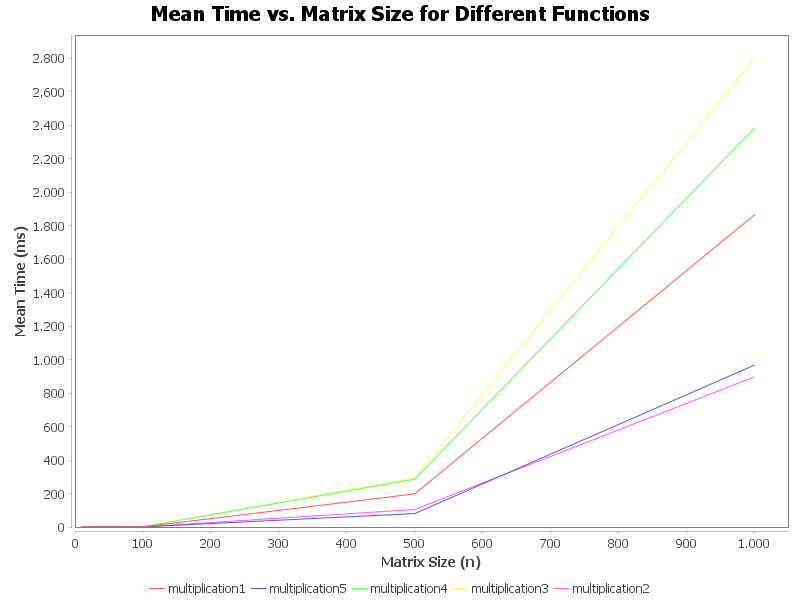
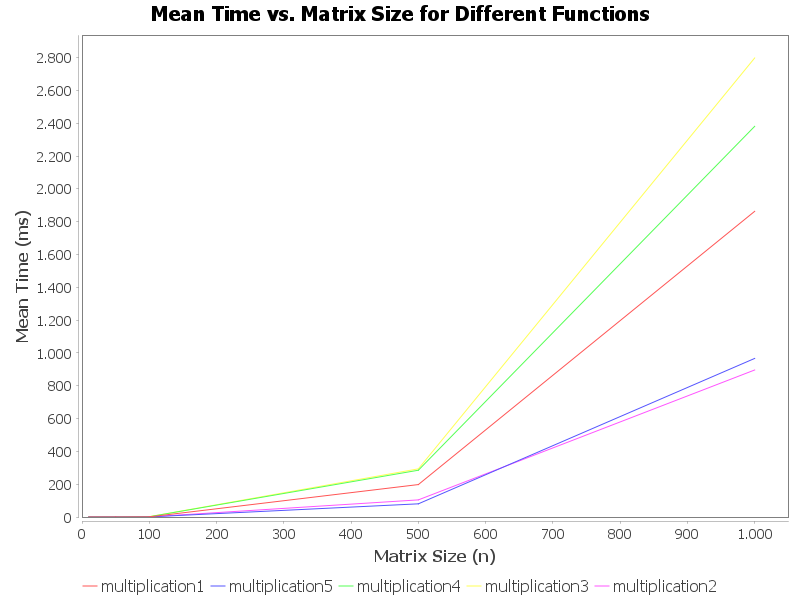
output images modified

diff --git a/code/java/matrixMultiplication/src/test/java/org/example/BenchmarkPlotter.java b/code/java/matrixMultiplication/src/test/java/org/example/BenchmarkPlotter.java
@@ -5,6 +5,8 @@ import org.jfree.chart.ChartPanel;
 import org.jfree.chart.JFreeChart;
 import org.jfree.chart.plot.PlotOrientation;
 import org.jfree.chart.plot.XYPlot;
+import org.jfree.chart.title.LegendTitle;
+import org.jfree.chart.title.TextTitle;
 import org.jfree.data.xy.XYSeries;
 import org.jfree.data.xy.XYSeriesCollection;
 
@@ -52,6 +54,9 @@ public class BenchmarkPlotter {
         XYPlot plot = chart.getXYPlot();
         plot.setBackgroundPaint(Color.WHITE);
 
+        setLabelAndTickFont(plot);
+        setLegendAndTitleFont(chart);
+
         ChartPanel chartPanel = new ChartPanel(chart);
         chartPanel.setPreferredSize(new Dimension(800, 600));
 
@@ -61,6 +66,27 @@ public class BenchmarkPlotter {
         frame.pack();
         frame.setLocationRelativeTo(null);
         frame.setVisible(true);
+    }
+
+    private static void setLabelAndTickFont(XYPlot plot) {
+        Font axisLabelFont = new Font("Tahoma", Font.BOLD, 16);
+        plot.getDomainAxis().setLabelFont(axisLabelFont);
+        plot.getRangeAxis().setLabelFont(axisLabelFont);
+
+        Font axisTickFont = new Font("Tahoma", Font.PLAIN, 14);
+        plot.getDomainAxis().setTickLabelFont(axisTickFont);
+        plot.getRangeAxis().setTickLabelFont(axisTickFont);
+    }
+
+    private static void setLegendAndTitleFont(JFreeChart chart) {
+        Font titleFont = new Font("Tahoma", Font.BOLD, 20);
+        chart.setTitle(new TextTitle(chart.getTitle().getText(), titleFont));
+
+        LegendTitle legend = chart.getLegend();
+        if (legend != null) {
+            Font legendFont = new Font("Tahoma", Font.PLAIN, 16);
+            legend.setItemFont(legendFont);
+        }
     }
 
     public static void main(String[] args) {

diff --git a/code/java/matrixMultiplication/src/test/java/org/example/MemoryDataPlotter.java b/code/java/matrixMultiplication/src/test/java/org/example/MemoryDataPlotter.java
@@ -5,6 +5,8 @@ import org.jfree.chart.ChartPanel;
 import org.jfree.chart.JFreeChart;
 import org.jfree.chart.plot.PlotOrientation;
 import org.jfree.chart.plot.XYPlot;
+import org.jfree.chart.title.LegendTitle;
+import org.jfree.chart.title.TextTitle;
 import org.jfree.data.xy.XYSeries;
 import org.jfree.data.xy.XYSeriesCollection;
 
@@ -86,6 +88,9 @@ public class MemoryDataPlotter {
         XYPlot plot = chart.getXYPlot();
         plot.setBackgroundPaint(Color.WHITE);
 
+        setLabelAndTickFont(plot);
+        setLegendAndTitleFont(chart);
+
         ChartPanel chartPanel = new ChartPanel(chart);
         chartPanel.setPreferredSize(new Dimension(800, 600));
 
@@ -95,6 +100,28 @@ public class MemoryDataPlotter {
         frame.pack();
         frame.setLocationRelativeTo(null);
         frame.setVisible(true);
+    }
+
+
+    private static void setLabelAndTickFont(XYPlot plot) {
+        Font axisLabelFont = new Font("Tahoma", Font.BOLD, 16);
+        plot.getDomainAxis().setLabelFont(axisLabelFont);
+        plot.getRangeAxis().setLabelFont(axisLabelFont);
+
+        Font axisTickFont = new Font("Tahoma", Font.PLAIN, 14);
+        plot.getDomainAxis().setTickLabelFont(axisTickFont);
+        plot.getRangeAxis().setTickLabelFont(axisTickFont);
+    }
+
+    private static void setLegendAndTitleFont(JFreeChart chart) {
+        Font titleFont = new Font("Tahoma", Font.BOLD, 20);
+        chart.setTitle(new TextTitle(chart.getTitle().getText(), titleFont));
+
+        LegendTitle legend = chart.getLegend();
+        if (legend != null) {
+            Font legendFont = new Font("Tahoma", Font.PLAIN, 16);
+            legend.setItemFont(legendFont);
+        }
     }
 
     public static class Pair<K, V> {
